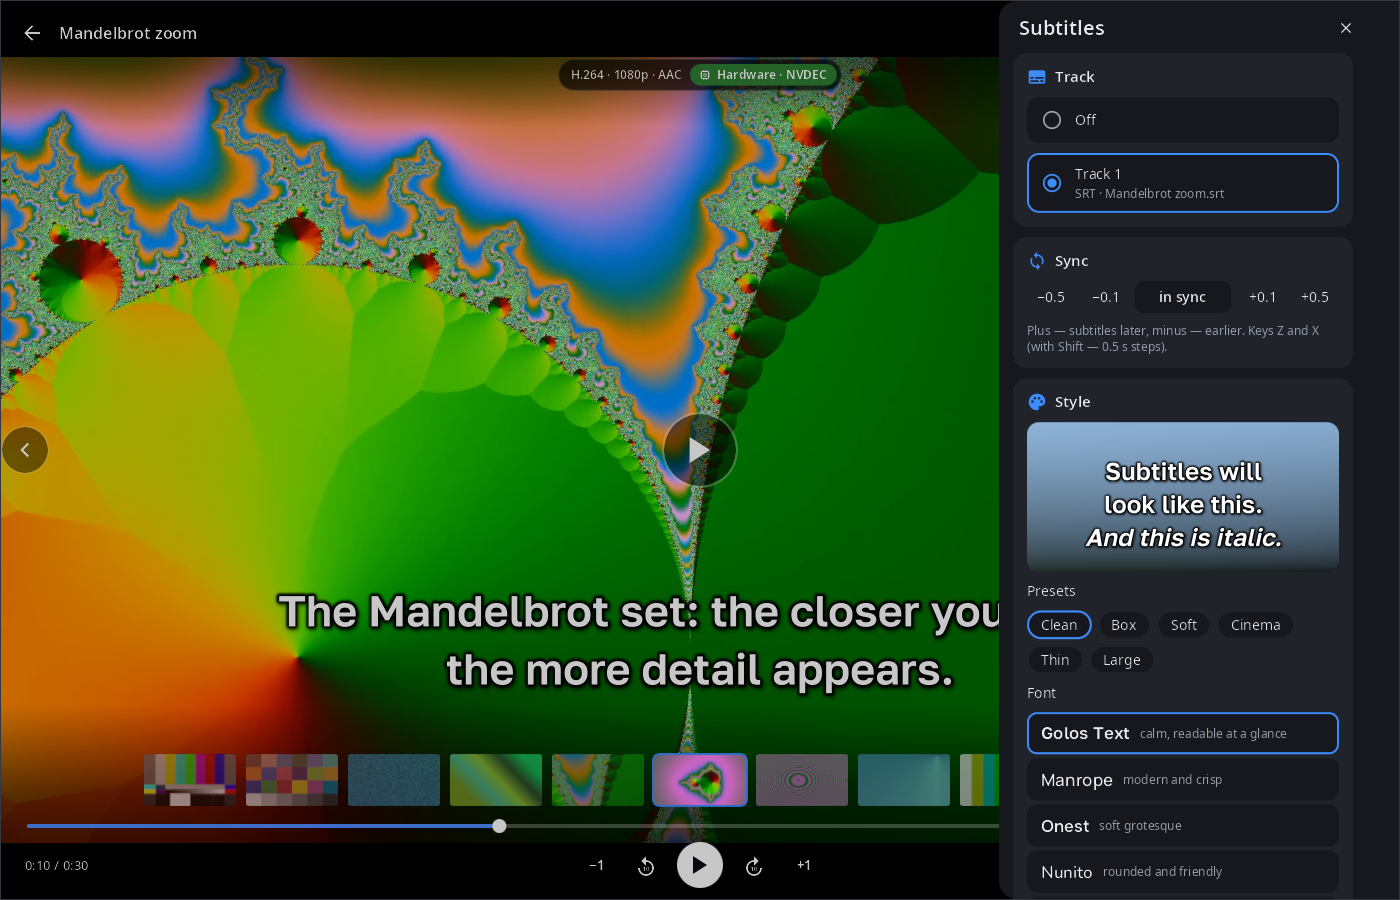
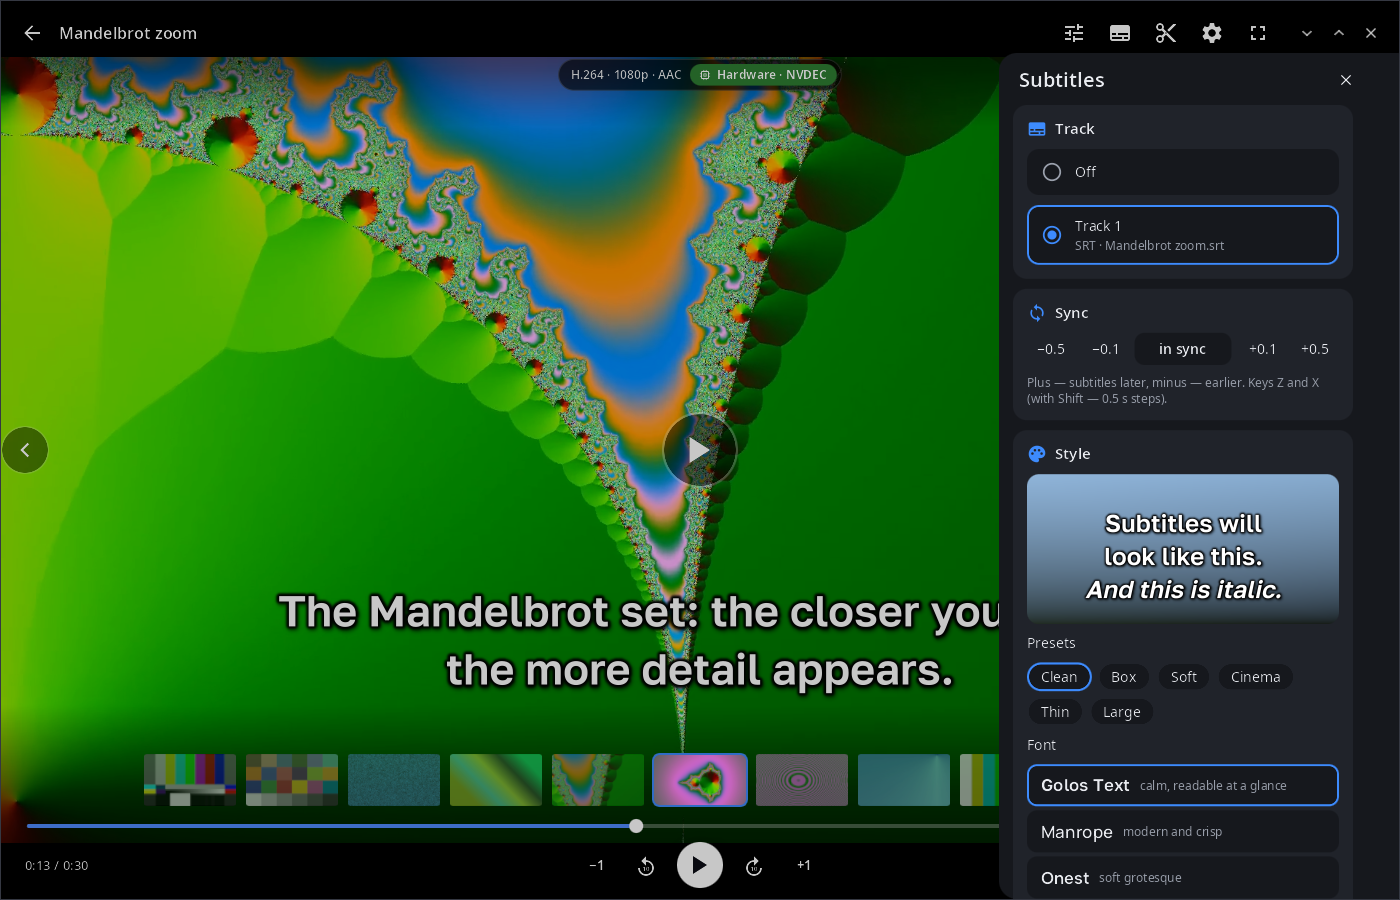
Видеоплеер: боковые панели (субтитры, фильтры, дорожки, настройки, монтаж) в окне — ниже строки кнопок окна, не закрывают их; во весь экран и на телефоне — во всю высоту; снимки README

diff --git a/crates/syn-video-player/src/chrome.rs b/crates/syn-video-player/src/chrome.rs
@@ -77,6 +77,16 @@ pub fn has_controls() -> bool {
     !is_phone()
 }
 
+/// Место боковой панели (субтитры, фильтры, настройки…): в окне — ниже строки с кнопками
+/// окна, чтобы панель их не закрывала; во весь экран и на телефоне — во всю высоту.
+pub fn panel_place(st: St) -> &'static str {
+    if has_controls() && !st.fullscreen.get() {
+        "vp-panel-place vp-panel-windowed"
+    } else {
+        "vp-panel-place"
+    }
+}
+
 /// Кнопки окна (свернуть, развернуть, закрыть); во весь экран их нет.
 pub fn controls(st: St, class: &'static str) -> W {
     Box::new(Reactive::new(move || -> Vec<W> {

diff --git a/crates/syn-video-player/src/filters.rs b/crates/syn-video-player/src/filters.rs
@@ -117,6 +117,7 @@ pub fn panel(st: St) -> W {
                     Row::new()
                         .main_axis_alignment(MainAxisAlignment::End)
                         .cross_axis_alignment(CrossAxisAlignment::Stretch)
+                        .class(crate::chrome::panel_place(st))
                         .child(GestureDetector::new().on_click(|| {}).child(panel)),
                 ),
         )]

diff --git a/crates/syn-video-player/src/subs.rs b/crates/syn-video-player/src/subs.rs
@@ -513,6 +513,7 @@ pub fn panel(st: St) -> W {
                     Row::new()
                         .main_axis_alignment(MainAxisAlignment::End)
                         .cross_axis_alignment(CrossAxisAlignment::Stretch)
+                        .class(crate::chrome::panel_place(st))
                         .child(GestureDetector::new().on_click(|| {}).child(panel)),
                 ),
         )]

diff --git a/crates/syn-video-player/src/tracks.rs b/crates/syn-video-player/src/tracks.rs
@@ -169,6 +169,7 @@ pub fn panel(st: St) -> W {
                     Row::new()
                         .main_axis_alignment(MainAxisAlignment::End)
                         .cross_axis_alignment(CrossAxisAlignment::Stretch)
+                        .class(crate::chrome::panel_place(st))
                         .child(GestureDetector::new().on_click(|| {}).child(panel)),
                 ),
         )]

diff --git a/crates/syn-video-player/src/player.rs b/crates/syn-video-player/src/player.rs
@@ -487,6 +487,7 @@ fn settings_panel(st: St) -> W {
                 Row::new()
                     .main_axis_alignment(MainAxisAlignment::End)
                     .cross_axis_alignment(CrossAxisAlignment::Stretch)
+                        .class(crate::chrome::panel_place(st))
                     .child(GestureDetector::new().on_click(|| {}).child(panel)),
             ),
     )

diff --git a/crates/syn-video-player/src/editor.rs b/crates/syn-video-player/src/editor.rs
@@ -643,6 +643,7 @@ fn add_sheet(st: St) -> W {
                 Row::new()
                     .main_axis_alignment(MainAxisAlignment::End)
                     .cross_axis_alignment(CrossAxisAlignment::Stretch)
+                        .class(crate::chrome::panel_place(st))
                     .child(GestureDetector::new().on_click(|| {}).child(panel)),
             ),
     )
